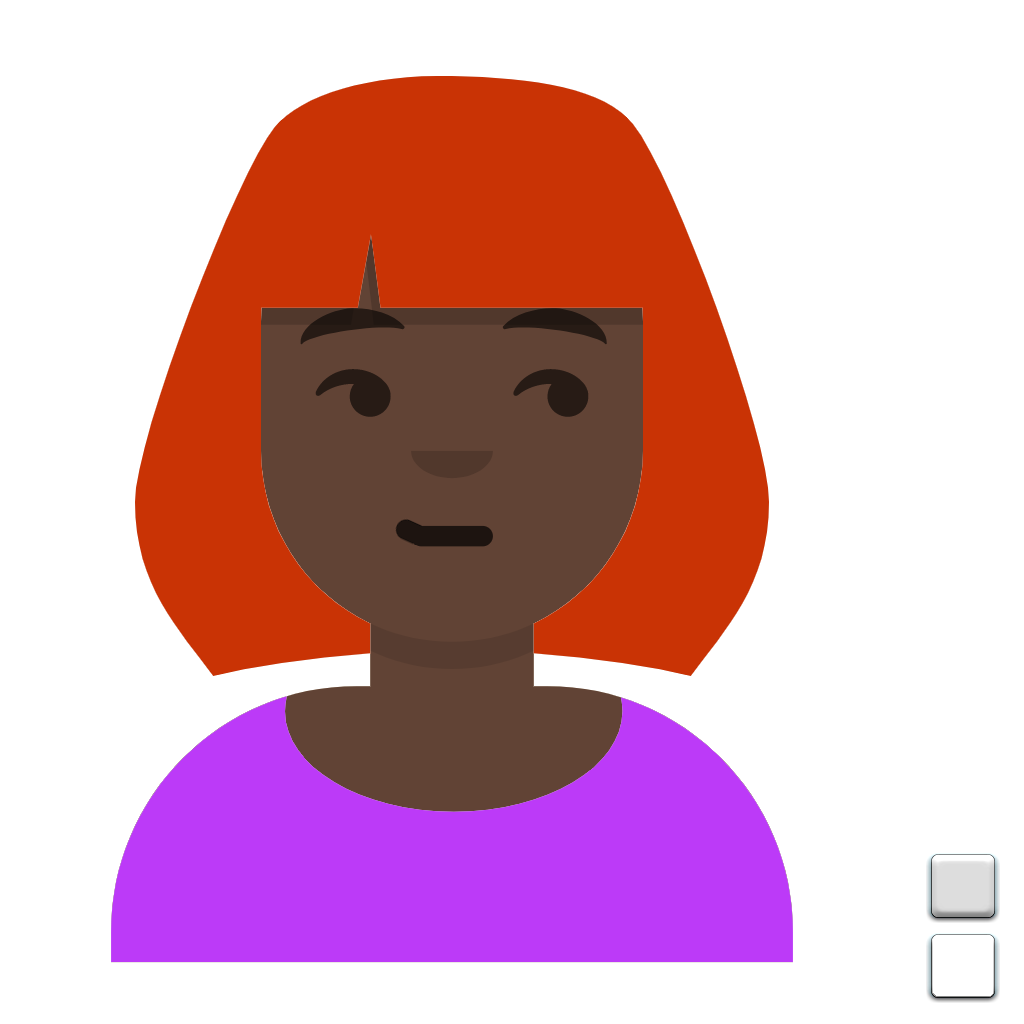
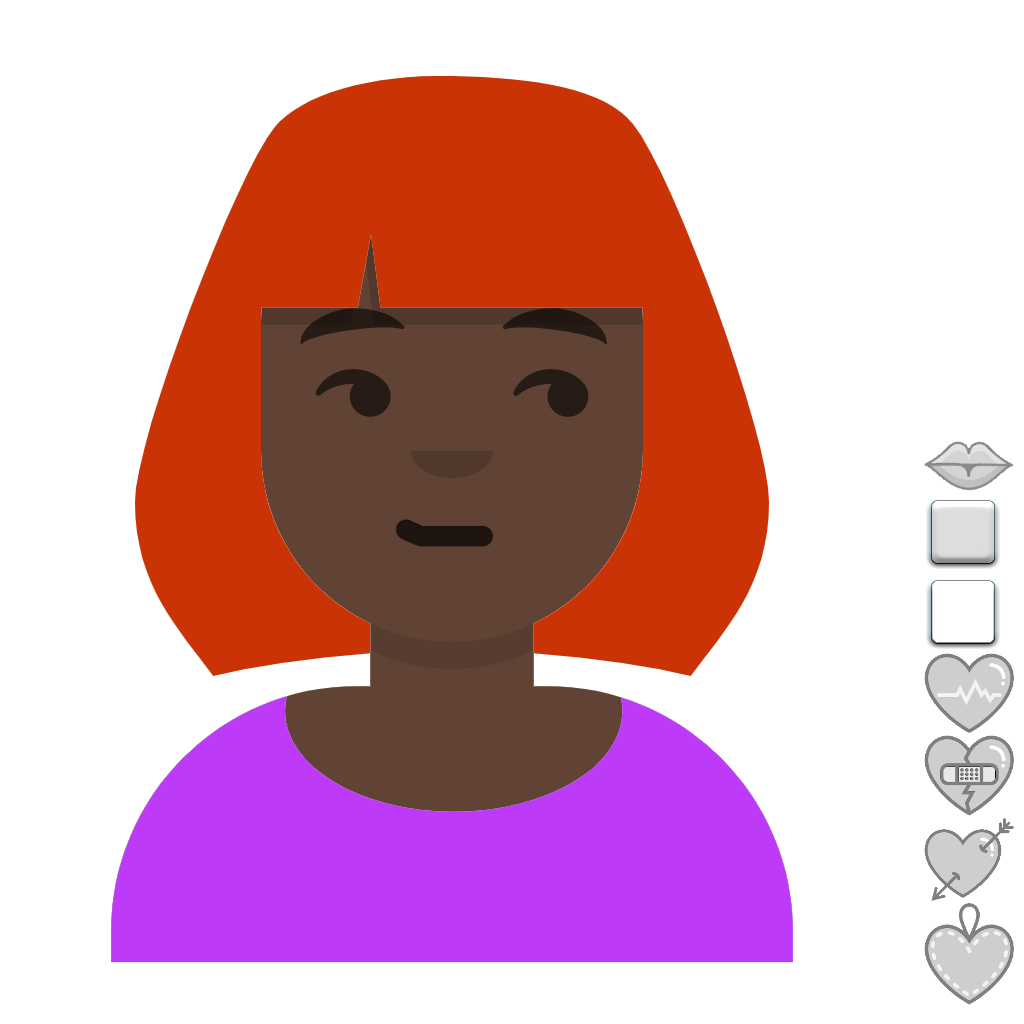
added heart particles

Changed region(s): [[0.9062, 0.4062, 1.0, 1.0]]

diff --git a/core/src/no/sandramoen/loveentity/utils/ParticleActor.kt b/core/src/no/sandramoen/loveentity/utils/ParticleActor.kt
@@ -1,0 +1,50 @@
+package no.sandramoen.loveentity.utils
+
+import com.badlogic.gdx.Gdx
+import com.badlogic.gdx.graphics.g2d.Batch
+import com.badlogic.gdx.graphics.g2d.ParticleEffect
+import com.badlogic.gdx.scenes.scene2d.Actor
+import com.badlogic.gdx.scenes.scene2d.Group
+
+open class ParticleActor(pfxFile: String, imageDirectory: String) : Group() {
+    private var effect: ParticleEffect = ParticleEffect()
+    private var renderingActor: ParticleRenderer
+
+    private inner class ParticleRenderer internal constructor(private val effect: ParticleEffect) : Actor() {
+        override fun draw(batch: Batch?, parentAlpha: Float) {
+            effect.draw(batch)
+        }
+    }
+
+    init {
+        effect.load(Gdx.files.internal(pfxFile), Gdx.files.internal(imageDirectory))
+        renderingActor = ParticleRenderer(effect)
+        this.addActor(renderingActor)
+    }
+
+    fun start() { effect.start() }
+    fun stop() { effect.allowCompletion() } // pauses continuous emitters
+    fun isRunning(): Boolean { return !effect.isComplete }
+    /*fun rotateActor(rotation: Float) { rotation(0f) }*/
+
+    fun centerAtActor(other: Actor) {
+        setPosition(
+                other.x + other.width / 2,
+                other.y + other.height / 2
+        )
+    }
+
+    override fun act(delta: Float) {
+        super.act(delta)
+        effect.update(delta)
+
+        if (effect.isComplete && !effect.emitters.first().isContinuous) {
+            effect.dispose()
+            this.remove()
+        }
+    }
+
+    override fun draw(batch: Batch?, parentAlpha: Float) {
+        super.draw(batch, parentAlpha)
+    }
+}

diff --git a/core/src/no/sandramoen/loveentity/actors/Heart.kt b/core/src/no/sandramoen/loveentity/actors/Heart.kt
@@ -1,6 +1,7 @@
 package no.sandramoen.loveentity.actors
 
 import com.badlogic.gdx.Gdx
+import com.badlogic.gdx.graphics.Color
 import com.badlogic.gdx.math.Interpolation
 import com.badlogic.gdx.math.MathUtils
 import com.badlogic.gdx.scenes.scene2d.InputEvent
@@ -50,6 +51,7 @@ class Heart(x: Float, y: Float, s: Stage) : BaseActor(x, y, s) {
                     addAction(Actions.scaleTo(1.0f, 1.0f, .5f, Interpolation.fade))
 
                     createFloatingLabelAndRemove(x, y, loveEarned)
+                    createAndStartEffect(x, y)
                 }
                 return true
             }
@@ -83,13 +85,21 @@ class Heart(x: Float, y: Float, s: Stage) : BaseActor(x, y, s) {
         }
     }
 
+    private fun createAndStartEffect(x: Float, y: Float) {
+        val heartEffect = HeartEffect()
+        heartEffect.setPosition(x, y)
+        heartEffect.scaleBy(2f)
+        addActor(heartEffect)
+        heartEffect.start()
+    }
+
     private fun createFloatingLabelAndRemove(x: Float, y: Float, loveEarned: BigInteger) {
         val temp = Label("", BaseGame.labelStyle)
         if (BaseGame.longScale)
             temp.setText("+${GameUtils.presentLongScale(loveEarned)}")
         else
             temp.setText("+${GameUtils.presentShortScale(loveEarned)}")
-        temp.setFontScale(.4f)
+        temp.setFontScale(.6f)
         temp.x = MathUtils.random(x - Gdx.graphics.width * .01f, x + Gdx.graphics.width * .01f)
         temp.y = y
         addActor(temp)

diff --git a/core/src/no/sandramoen/loveentity/actors/HeartEffect.kt b/core/src/no/sandramoen/loveentity/actors/HeartEffect.kt
@@ -1,0 +1,5 @@
+package no.sandramoen.loveentity.actors
+
+import no.sandramoen.loveentity.utils.ParticleActor
+
+class HeartEffect : ParticleActor("effects/heartEffect.pfx", "images/included/") {}
